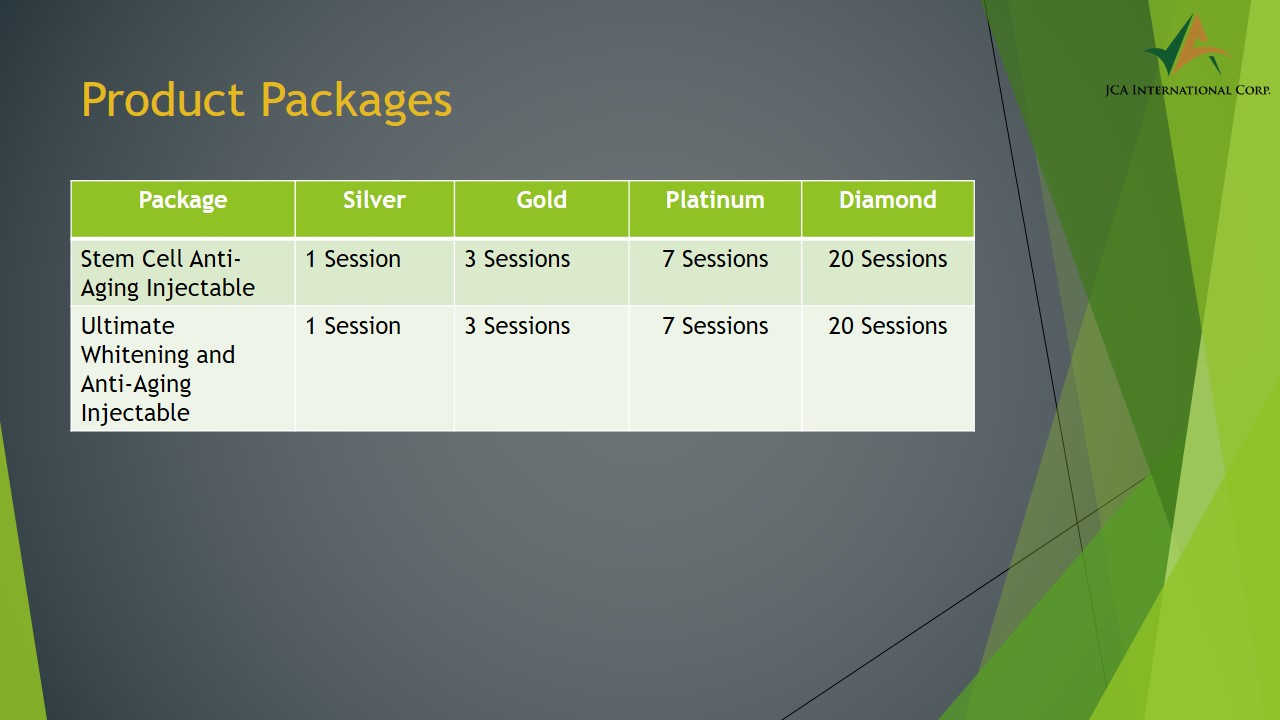
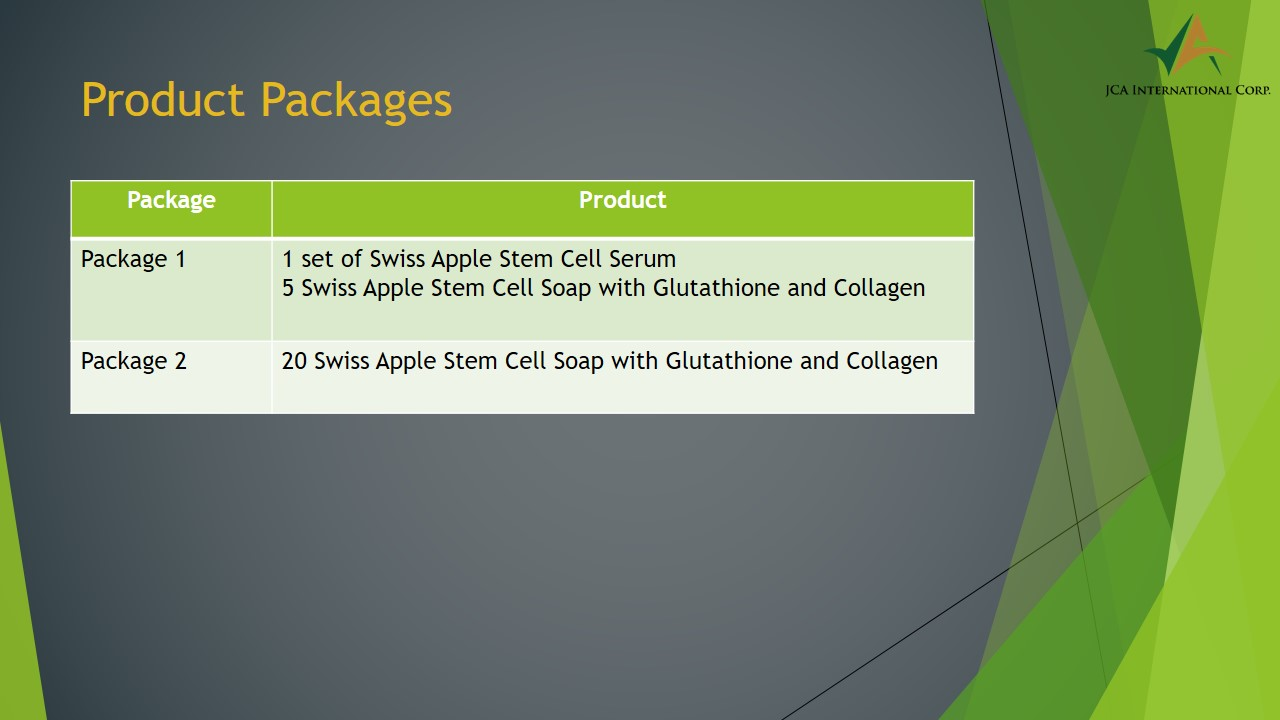
figs

diff --git a/public/themes/jca/views/layout.blade.php b/public/themes/jca/views/layout.blade.php
@@ -133,7 +133,7 @@
                                 <div class="icon-holder">
                                     <img class="jca-footer-icon" src="/themes/{{ $shop_theme }}/img/telephone-logo.png">
                                 </div>
-                                <p class="footer-details">(02)631-6997 | 0917-5326968</p>
+                                <p class="footer-details">(02)631-6997 | 0926-649-4134 and 0946-561-9714</p>
                             </div>
                             <div class="jca-footer-details-container">
                                 <div class="icon-holder">
@@ -179,16 +179,12 @@
                                 <p class="footer-detail-list">Packages</p>
                             </a>
                             
+                            <a href="/themes/{{ $shop_theme }}/img/overview/service-packages.jpg" class="lsb-preview"> 
+                                <p class="footer-detail-list">Service Packages</p>
+                            </a>
+
                             <a href="/themes/{{ $shop_theme }}/img/overview/product-packages.jpg" class="lsb-preview"> 
                                 <p class="footer-detail-list">Product Packages</p>
-                            </a>
-
-                            <a href="/themes/{{ $shop_theme }}/img/overview/product-packages-2.jpg" class="lsb-preview"> 
-                                <p class="footer-detail-list">Product Packages (8,000 Standard Package)</p>
-                            </a>
-
-                            <a href="/themes/{{ $shop_theme }}/img/overview/direct-selling.jpg" class="lsb-preview"> 
-                                <p class="footer-detail-list">Direct Selling</p>
                             </a>
                             
                             <a href="/themes/{{ $shop_theme }}/img/overview/sales-commission.jpg" class="lsb-preview"> 

diff --git a/public/themes/jca/views/member/member_layout.blade.php b/public/themes/jca/views/member/member_layout.blade.php
@@ -39,7 +39,13 @@
 						</li>
 						@if($mlm_member)
 						<li class="{{ Request::segment(2) == "genealogy" ? "active" : "" }}">
-							<a href="javascript:"><div class="nav-holder"><div class="icon brown-icon-flow-tree"></div> <span>Genealogy</span></div></a>
+							<a href="javascript:">
+								<div class="nav-holder">
+								<!-- <div class="icon brown-icon-flow-tree"></div> -->
+								<div class="icon"><img src="/themes/{{ $shop_theme }}/img/binary-icon-nav.png"></div>
+								<span>Genealogy</span>
+							</div>
+							</a>
 
 							<ul>
 								<li>
